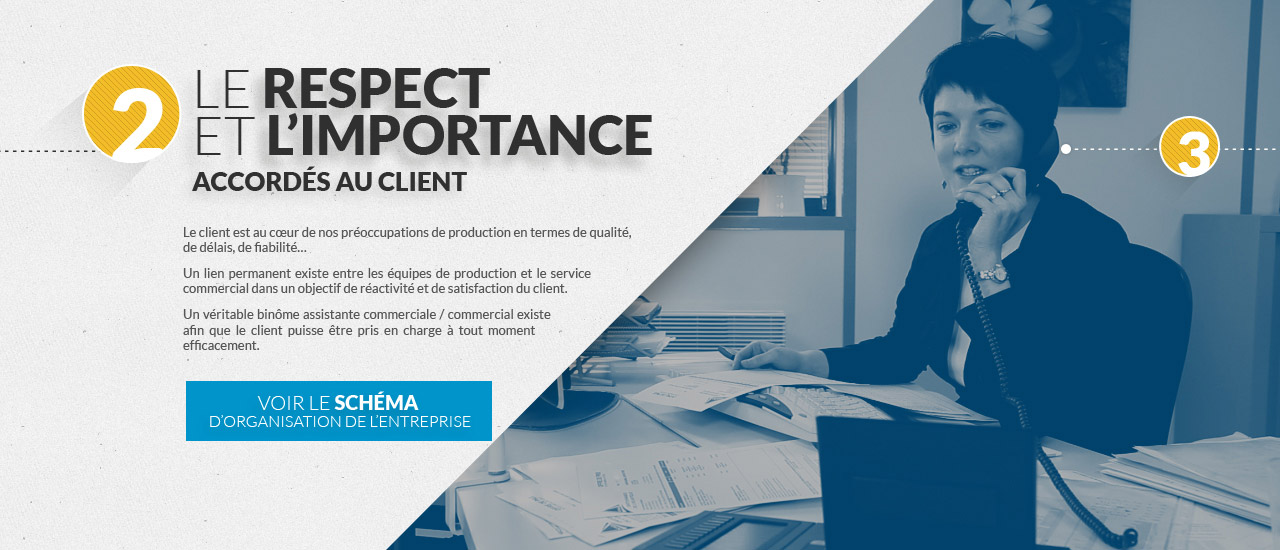
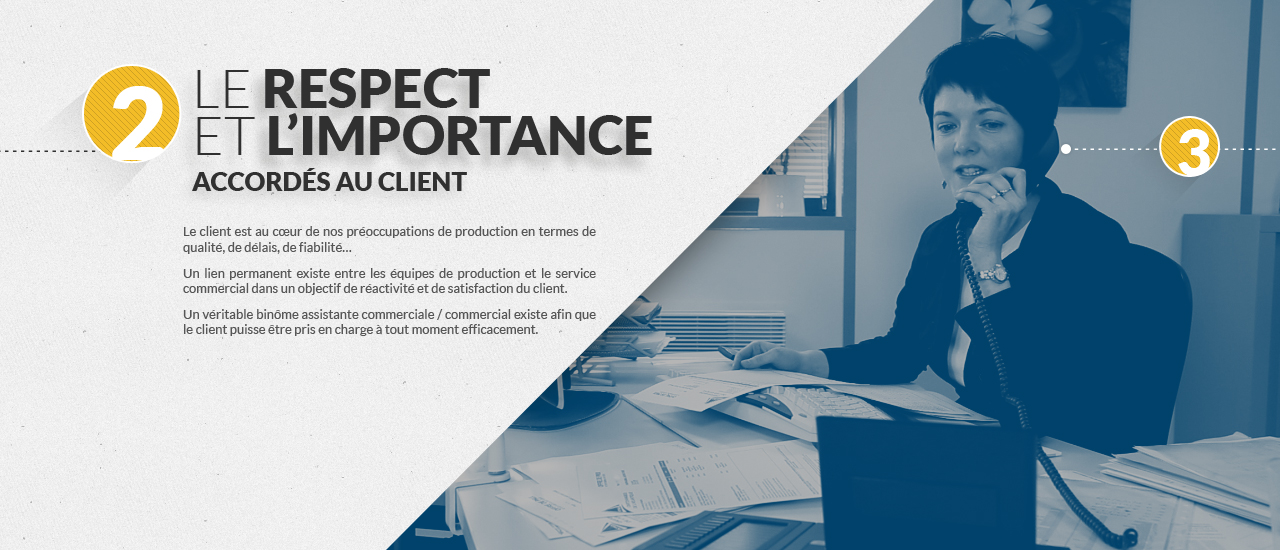
install ngDialog dans page "valeurs"

diff --git a/app/index.html b/app/index.html
@@ -13,7 +13,8 @@
     <!-- bower:css -->
     <link rel="stylesheet" href="bower_components/bootstrap/dist/css/bootstrap.css" />
     <link rel="stylesheet" href="bower_components/angular-snap/angular-snap.css" />
-    <link rel="stylesheet" href="bower_components/ngModal/dist/ng-modal.css" />
+    <link rel="stylesheet" href="bower_components/ngDialog/css/ngDialog.css" />
+    <link rel="stylesheet" href="bower_components/ngDialog/css/ngDialog-theme-default.css" />
     <!-- endbower -->
     <link rel="stylesheet" href="bower_components/slick-carousel/slick/slick.css" />
     <!-- endbuild -->
@@ -83,8 +84,8 @@
     <script src="bower_components/masonry/masonry.js"></script>
     <script src="bower_components/imagesloaded/imagesloaded.js"></script>
     <script src="bower_components/angular-masonry/angular-masonry.js"></script>
-    <script src="bower_components/ngModal/dist/ng-modal.js"></script>
     <script src="bower_components/angular-bootstrap/ui-bootstrap-tpls.js"></script>
+    <script src="bower_components/ngDialog/js/ngDialog.js"></script>
     <!-- endbower -->
     <!-- endbuild -->
 

diff --git a/app/views/valeurs.html b/app/views/valeurs.html
@@ -1,19 +1,15 @@
 <div class="{{page.id}}">
 	<header class="mainheader" ng-include="'views/header.html'">
 	</header>
-	<modal-dialog show='dialogShown' dialog-title='My Dialog'>
-  <p>Dialog content goes in here</p>
-</modal-dialog>
 	<div class="main" role="main">
 		<div slick ng-transclude settings="slickConfig" control="slickHandle">
 			<div ng-repeat="slide in page.slides track by $index | orderBy: 'order'" data-id="{{slide.id}}">
 				<div class="slide" ng-click="islideActive()" style="background-image: url({{slide.image}});">
-					<!-- <div class="col-md-6">
-						<div class="wrapper">
-							<h2>{{slide.title[0]}}</h2>
-							<p>{{slide.texte[0]}}</p>
-						</div>
-					</div> -->
+					<div ng-if="slide.id == 'valeur-2'">
+						<a class="btn btn-primary btn-schema" ng-click="clickToOpen(slide.box)">Voir le <strong>schéma</strong><br> <small>d'organisation de l'entreprise</small></a>
+
+					</div>
+					
 				</div>
 			</div>
 		</div>

diff --git a/app/scripts/controllers/valeurs.js b/app/scripts/controllers/valeurs.js
@@ -1,6 +1,6 @@
 'use strict';
 
-cartonnApp.controller('ValeursCtrl', ['$scope', 'Pages', function ($scope, Pages) {
+cartonnApp.controller('ValeursCtrl', ['$scope', 'Pages', 'ngDialog', function ($scope, Pages, ngDialog) {
 	
 	Pages.getData(function(data) {
 		console.log('data loaded');
@@ -16,6 +16,14 @@ cartonnApp.controller('ValeursCtrl', ['$scope', 'Pages', function ($scope, Pages
 	$scope.slickHandle = {
 
 	};
+
+	$scope.clickToOpen = function (img) {
+		var image = '<img src="' + img + '" class="img-responsive" />';
+        ngDialog.open({   	
+        	template: image,
+        	plain: true
+        });
+    };
 
 	// classe active
     $scope.islideActive = function(slide, scope, element, attrs) {

diff --git a/app/scripts/app.js b/app/scripts/app.js
@@ -11,8 +11,8 @@ var cartonnApp = angular.module('cartonnApp', [
     'bardo.directives',
     'FBAngular',
     'wu.masonry',
-    'ngModal',
-    'ui.bootstrap'
+    'ui.bootstrap',
+    'ngDialog'
   ]);
 
 cartonnApp.config(['$routeProvider', function ($routeProvider) {

diff --git a/app/styles/main.css b/app/styles/main.css
@@ -497,4 +497,10 @@ small {
     font-size: 15px;
     line-height: 1.33;
     padding: 10px;
-} 
+}
+
+/*ng Dialog*/
+
+.ngdialog.ngdialog-theme-default .ngdialog-content {
+	width: 90%;
+}
